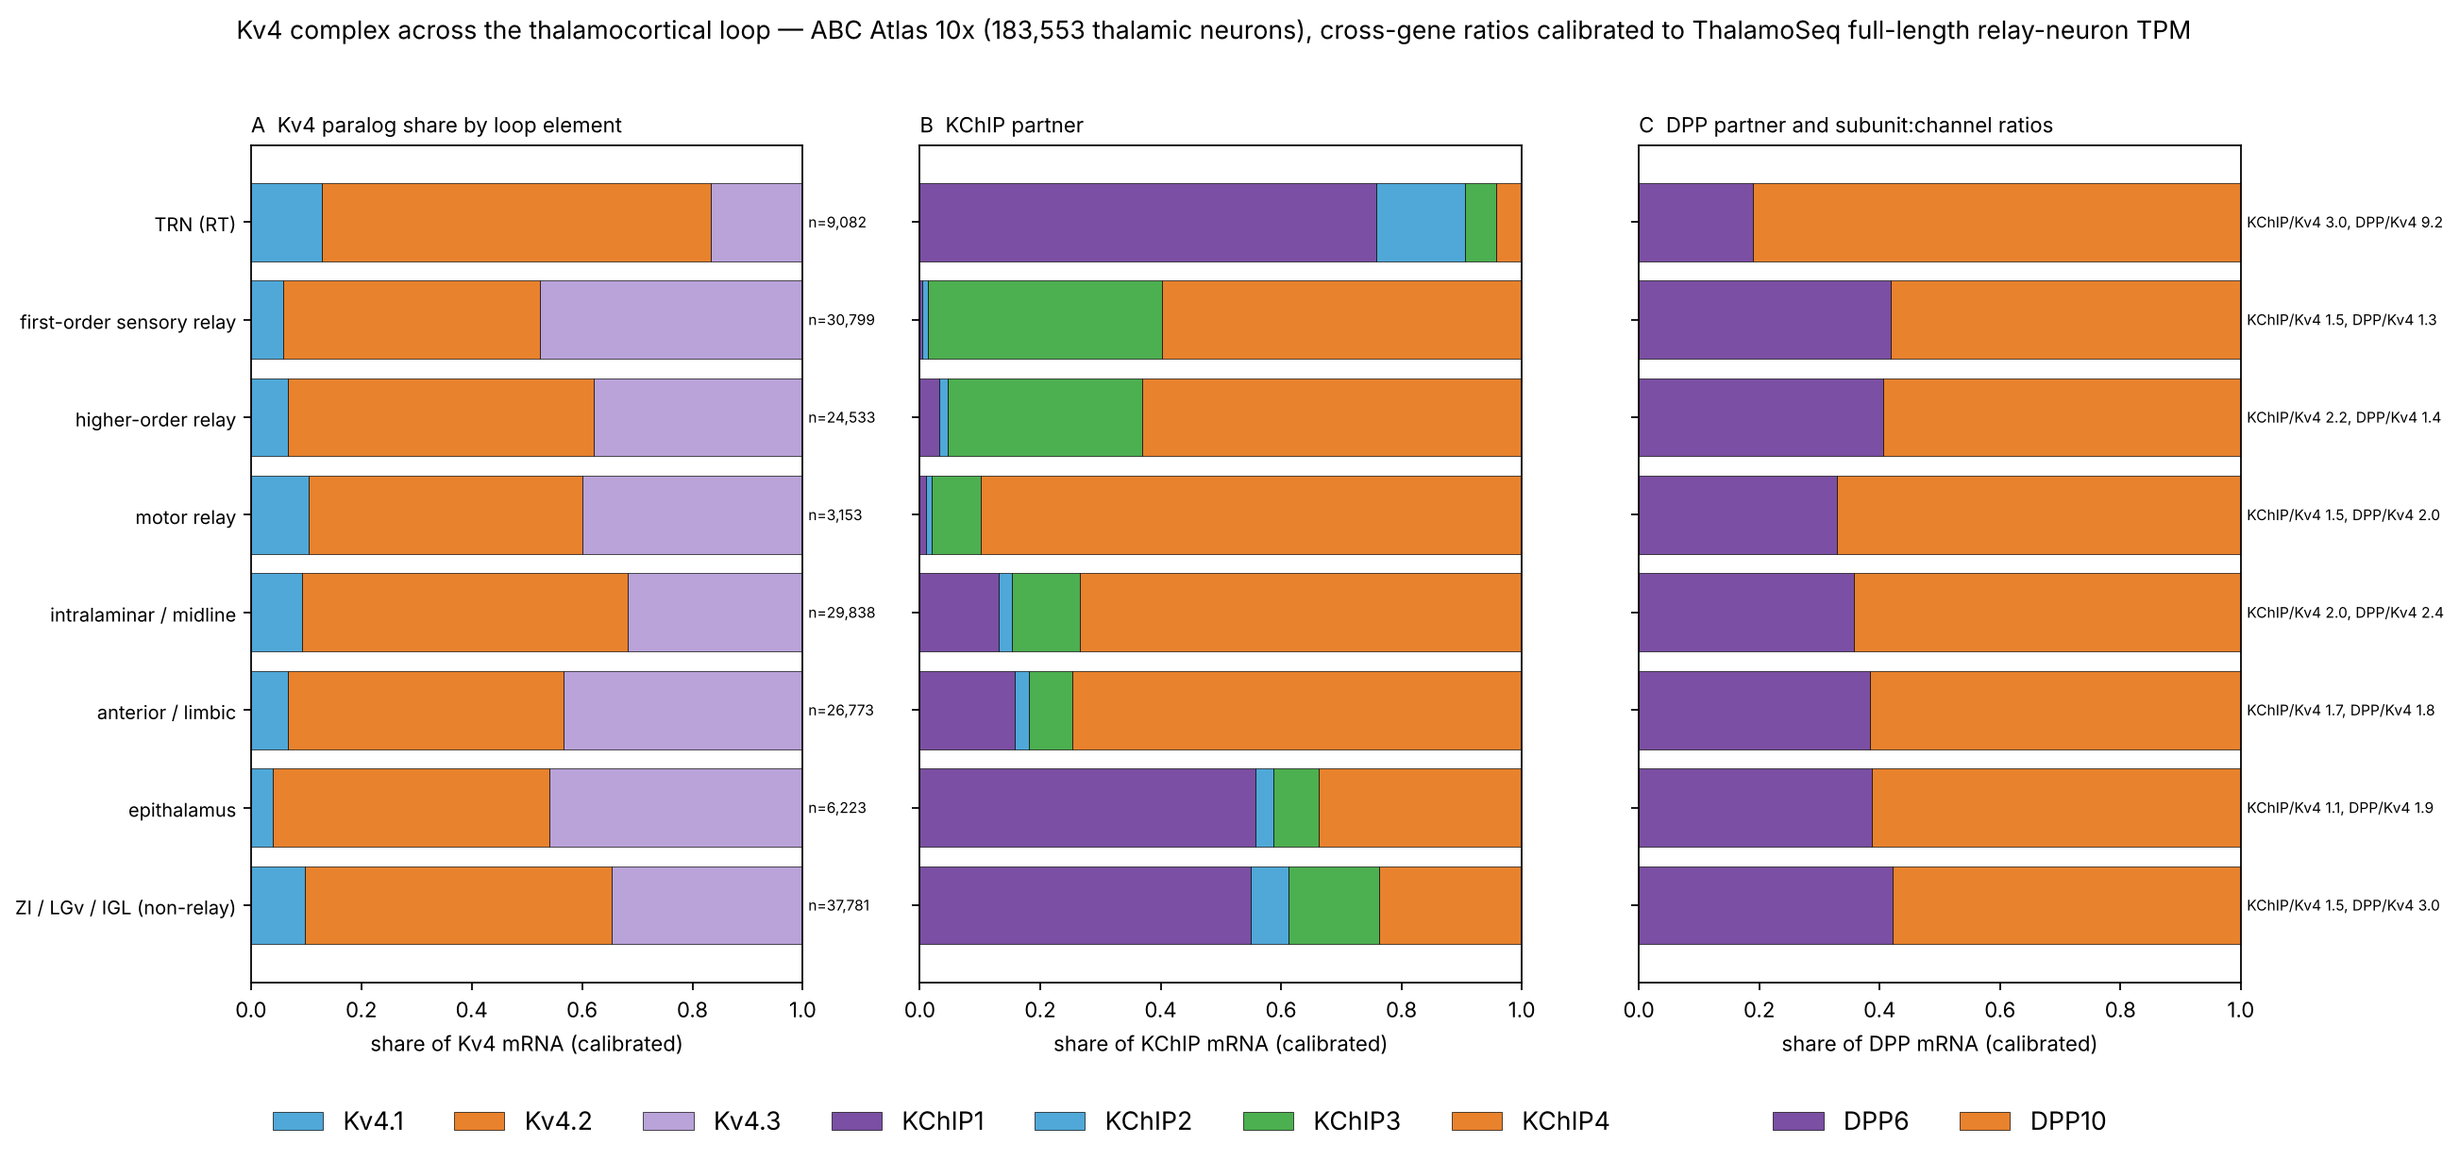
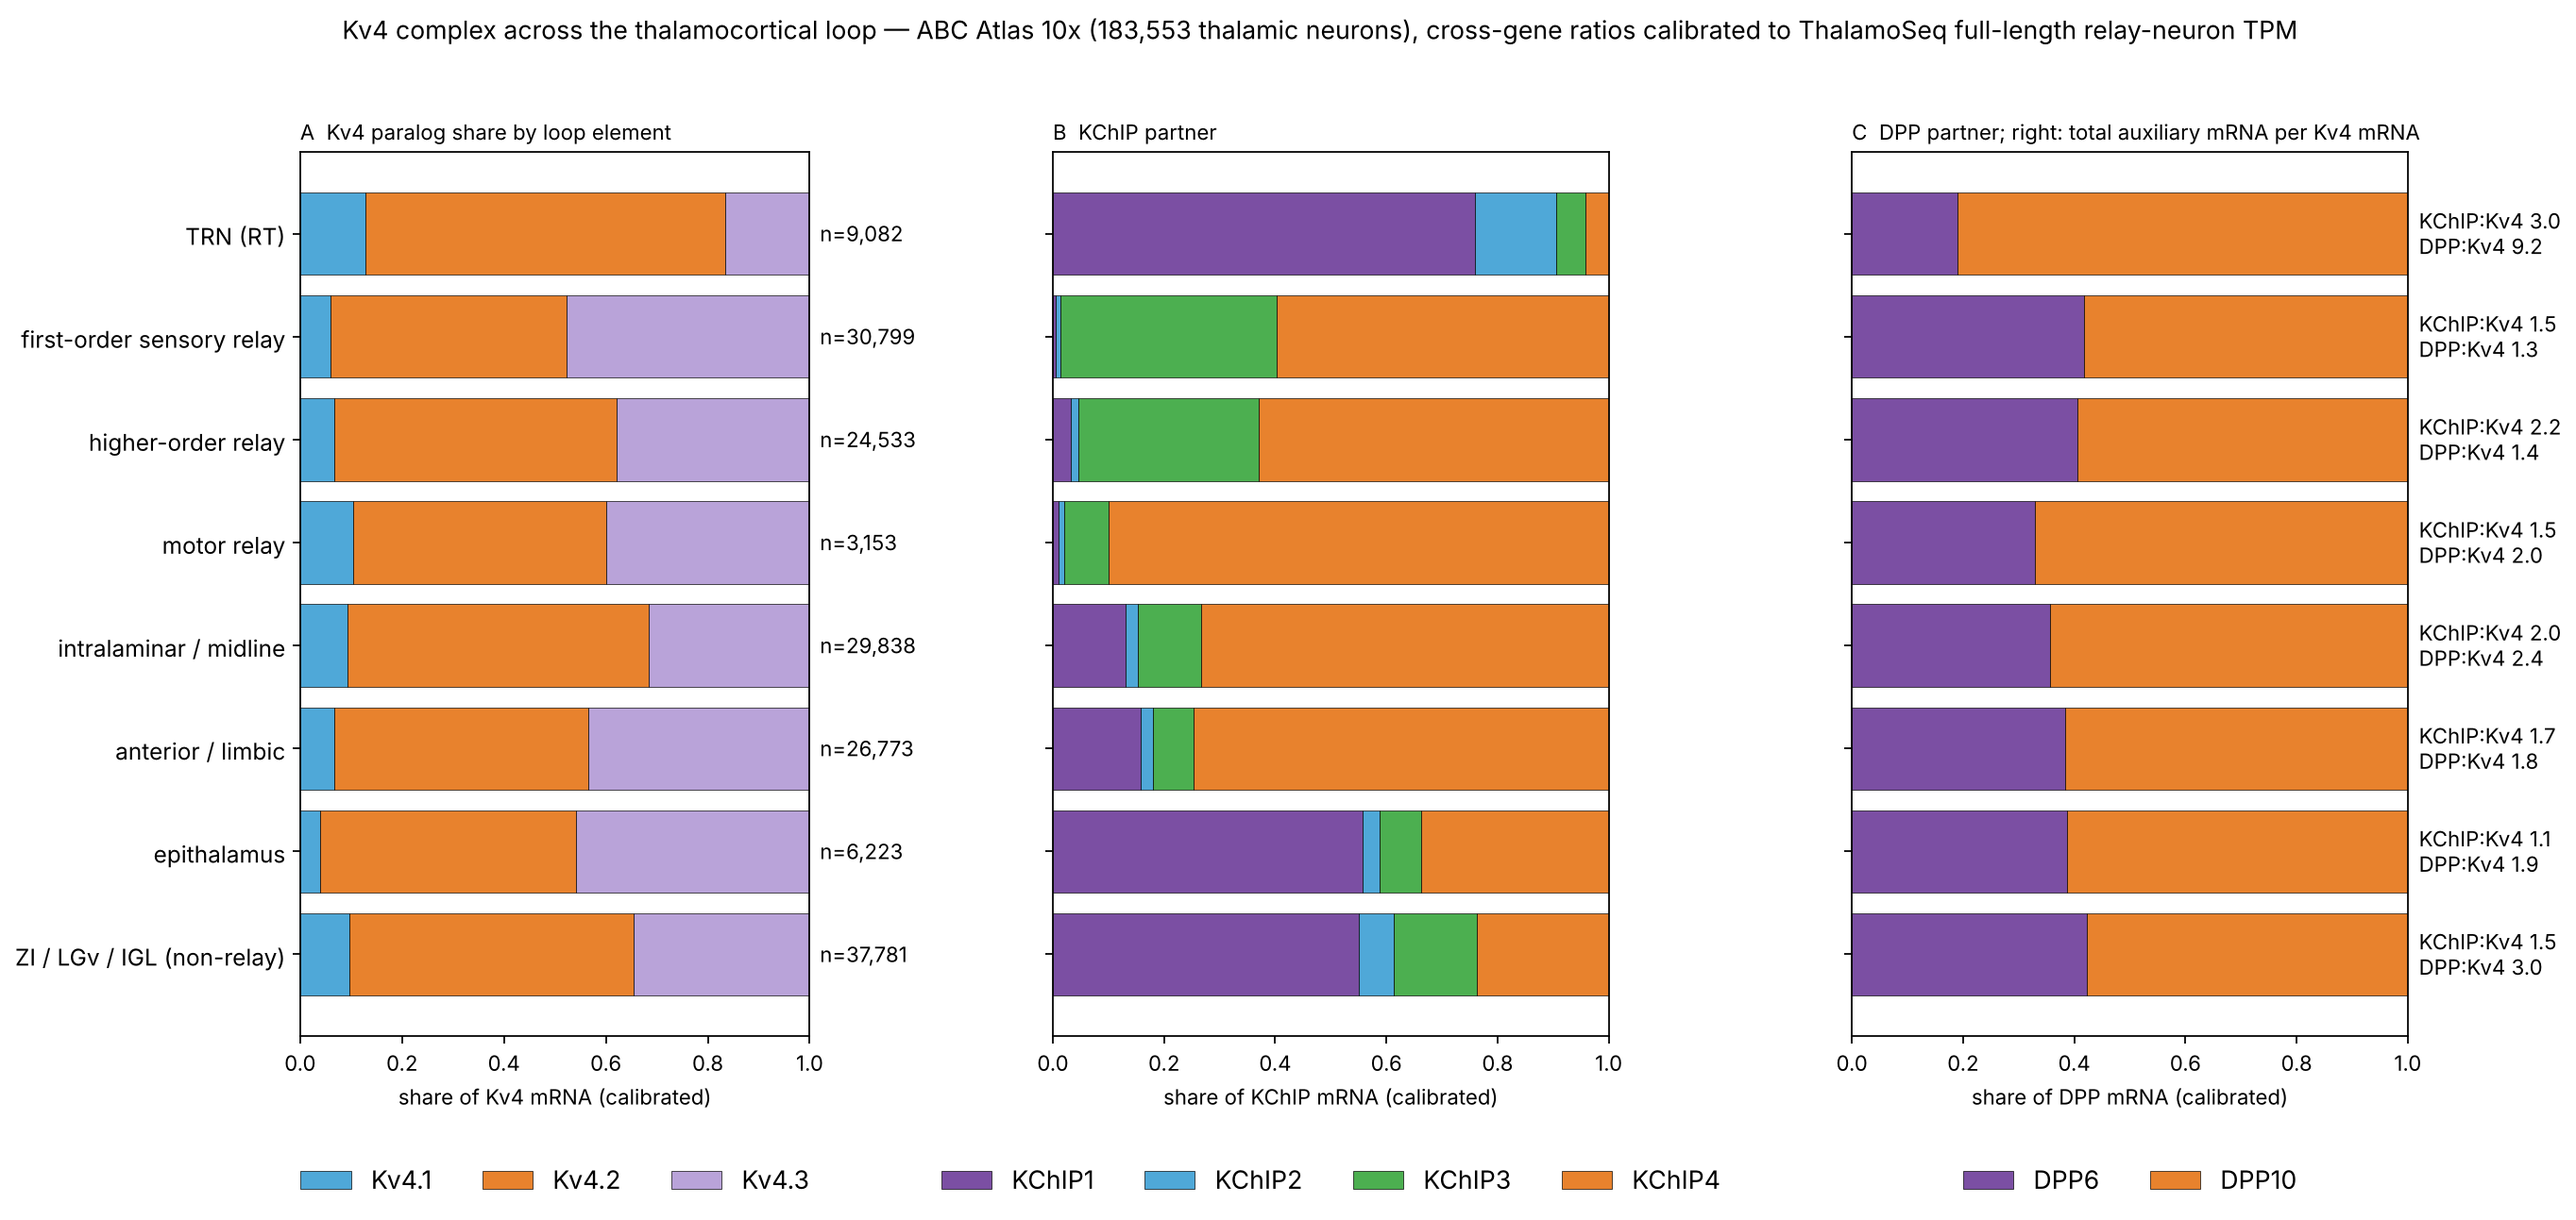
10x loop figure: larger annotations (cell counts, auxiliary:Kv4 ratios)
Claude-Session: https://claude.ai/code/session_01LyLqBU1JBtmoS9Pe1mdPxR

diff --git a/thalamus/calibrate_th10x.py b/thalamus/calibrate_th10x.py
@@ -81,7 +81,7 @@ rt = C[C.subclass.str.contains('RT-ZI') & (C.n_cells >= 50)].copy()
 rt.to_csv(f'{OUT}/tables/th10x_rt_clusters.csv', index=False)
 
 # ---------------- figure
-fig, axes = plt.subplots(1, 3, figsize=(17, 7.2), gridspec_kw={'width_ratios': [1.1, 1.2, 1.2]})
+fig, axes = plt.subplots(1, 3, figsize=(18, 7.6), gridspec_kw={'width_ratios': [1.1, 1.2, 1.2], 'wspace': 0.45})
 order = [i for i in CL.index if i != 'other']
 y = np.arange(len(order))
 cols = {'Kcnd1': '#4FA8D8', 'Kcnd2': '#E8822D', 'Kcnd3': '#B9A3D9'}
@@ -90,8 +90,8 @@ for g in KV4:
     v = CL.loc[order, f'share_{g}'].values
     ax.barh(y, v, left=left, color=cols[g], label=g.replace('Kcnd', 'Kv4.'), edgecolor='k', lw=0.3); left += v
 for i, o in enumerate(order):
-    ax.text(1.01, i, f'n={CL.loc[o, "n_cells"]:,}', va='center', fontsize=7)
-ax.set_yticks(y); ax.set_yticklabels(order, fontsize=9); ax.invert_yaxis(); ax.set_xlim(0, 1)
+    ax.text(1.02, i, f'n={CL.loc[o, "n_cells"]:,}', va='center', fontsize=10)
+ax.set_yticks(y); ax.set_yticklabels(order, fontsize=11); ax.invert_yaxis(); ax.set_xlim(0, 1)
 ax.set_xlabel('share of Kv4 mRNA (calibrated)'); ax.set_title('A  Kv4 paralog share by loop element', loc='left', fontsize=10)
 ax.legend(fontsize=12, frameon=False, loc='upper center', bbox_to_anchor=(0.5, -0.12), ncol=3)
 kc = {'Kcnip1': '#7B4FA3', 'Kcnip2': '#4FA8D8', 'Kcnip3': '#4CAF50', 'Kcnip4': '#E8822D'}
@@ -106,9 +106,9 @@ for g, c in zip(DPP, ['#7B4FA3', '#E8822D']):
     v = CL.loc[order, f'DPP_comp_{g}'].values
     ax.barh(y, v, left=left, color=c, label=g.replace('Dpp', 'DPP'), edgecolor='k', lw=0.3); left += v
 for i, o in enumerate(order):
-    ax.text(1.01, i, f'KChIP/Kv4 {CL.loc[o, "KChIP_per_Kv4"]:.1f}, DPP/Kv4 {CL.loc[o, "DPP_per_Kv4"]:.1f}', va='center', fontsize=7)
+    ax.text(1.02, i, f'KChIP:Kv4 {CL.loc[o, "KChIP_per_Kv4"]:.1f}\nDPP:Kv4 {CL.loc[o, "DPP_per_Kv4"]:.1f}', va='center', fontsize=10)
 ax.set_yticks(y); ax.set_yticklabels([]); ax.invert_yaxis(); ax.set_xlim(0, 1)
-ax.set_xlabel('share of DPP mRNA (calibrated)'); ax.set_title('C  DPP partner and subunit:channel ratios', loc='left', fontsize=10); ax.legend(fontsize=12, frameon=False, loc='upper center', bbox_to_anchor=(0.5, -0.12), ncol=2)
+ax.set_xlabel('share of DPP mRNA (calibrated)'); ax.set_title('C  DPP partner; right: total auxiliary mRNA per Kv4 mRNA', loc='left', fontsize=10); ax.legend(fontsize=12, frameon=False, loc='upper center', bbox_to_anchor=(0.5, -0.12), ncol=2)
 fig.suptitle('Kv4 complex across the thalamocortical loop — ABC Atlas 10x (183,553 thalamic neurons), cross-gene ratios calibrated to ThalamoSeq full-length relay-neuron TPM', y=1.0)
 fig.savefig(f'{OUT}/figures/th10x_kv4_calibrated.png', dpi=160, bbox_inches='tight')
 pd.set_option('display.width', 220)
